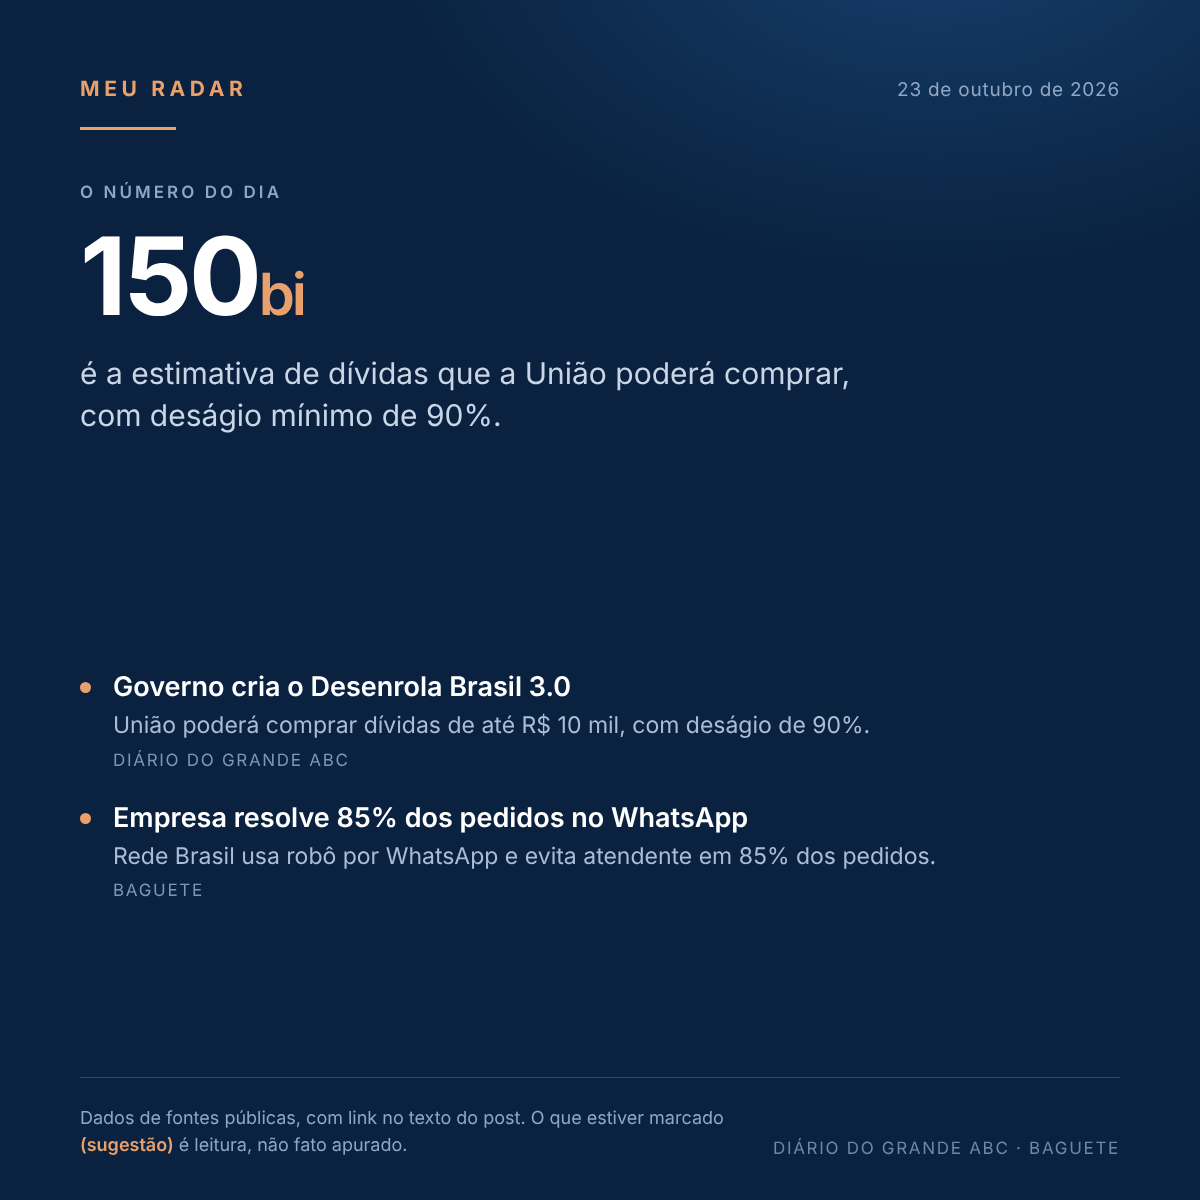
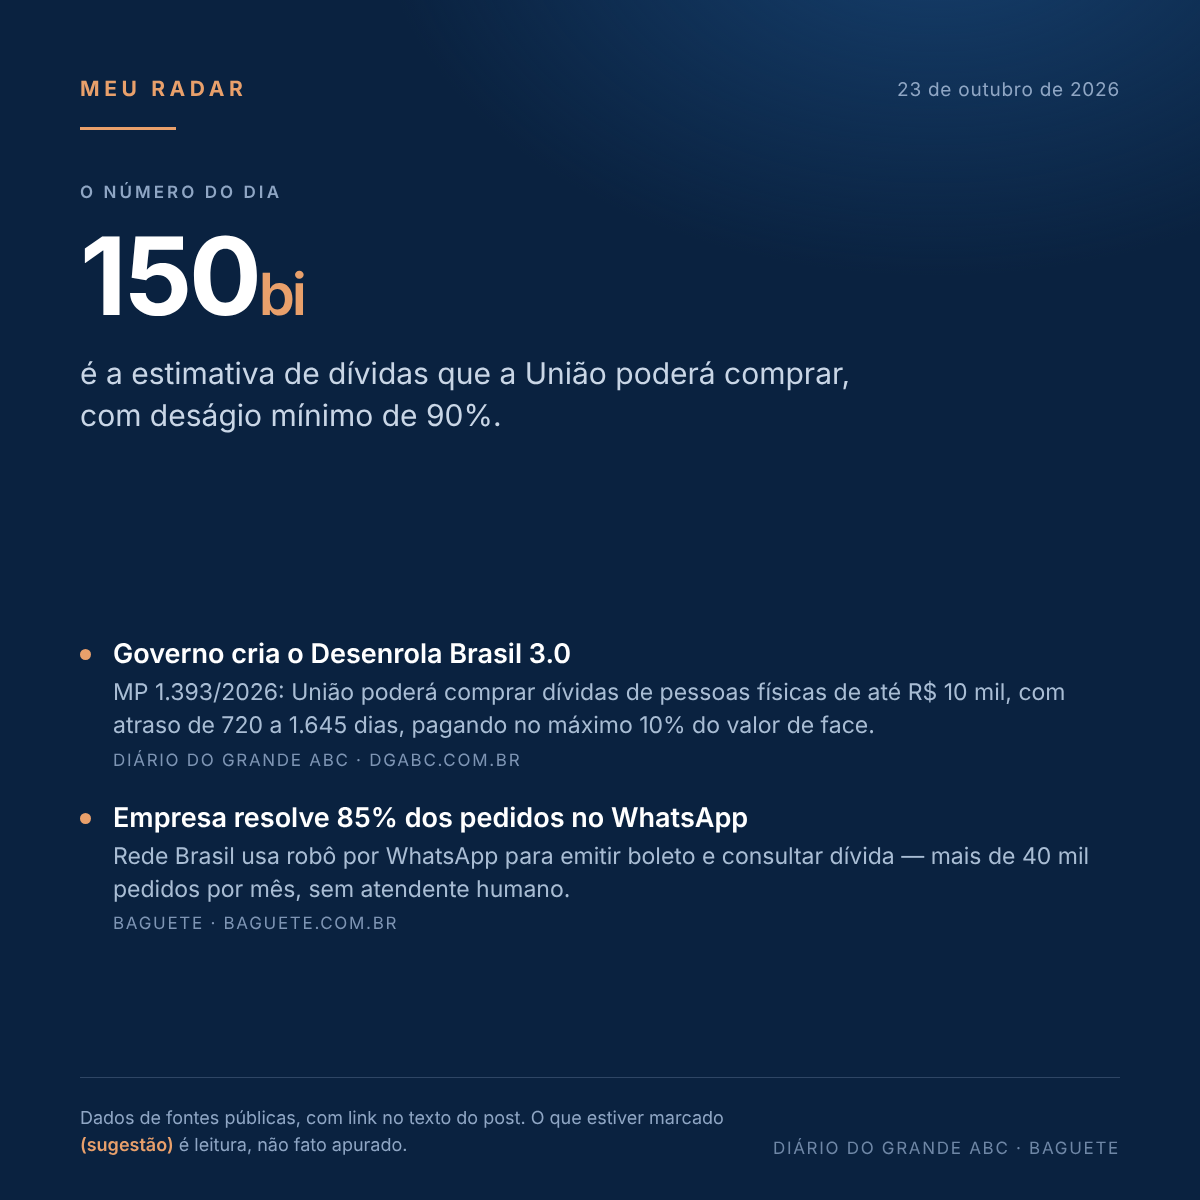
cartaz de 2026-10-23: itens mais completos e site da fonte

Changed region(s): [[0.0925, 0.5242, 0.8942, 0.6475], [0.4008, 0.7092, 0.8942, 0.7708], [0.0925, 0.7092, 0.4008, 0.7708]]

diff --git a/cartaz/2026-10-23.html b/cartaz/2026-10-23.html
@@ -95,13 +95,13 @@
   <div class="itens">
   <div class="item"><div class="bolinha"></div><div class="texto-item">
 <div class="titulo-item">Governo cria o Desenrola Brasil 3.0</div>
-<div class="linha-item">União poderá comprar dívidas de até R$ 10 mil, com deságio de 90%.</div>
-<div class="veiculo">Diário do Grande ABC</div>
+<div class="linha-item">MP 1.393/2026: União poderá comprar dívidas de pessoas físicas de até R$ 10 mil, com atraso de 720 a 1.645 dias, pagando no máximo 10% do valor de face.</div>
+<div class="veiculo">Diário do Grande ABC · dgabc.com.br</div>
 </div></div>
   <div class="item"><div class="bolinha"></div><div class="texto-item">
 <div class="titulo-item">Empresa resolve 85% dos pedidos no WhatsApp</div>
-<div class="linha-item">Rede Brasil usa robô por WhatsApp e evita atendente em 85% dos pedidos.</div>
-<div class="veiculo">Baguete</div>
+<div class="linha-item">Rede Brasil usa robô por WhatsApp para emitir boleto e consultar dívida — mais de 40 mil pedidos por mês, sem atendente humano.</div>
+<div class="veiculo">Baguete · baguete.com.br</div>
 </div></div>
   </div>
 
